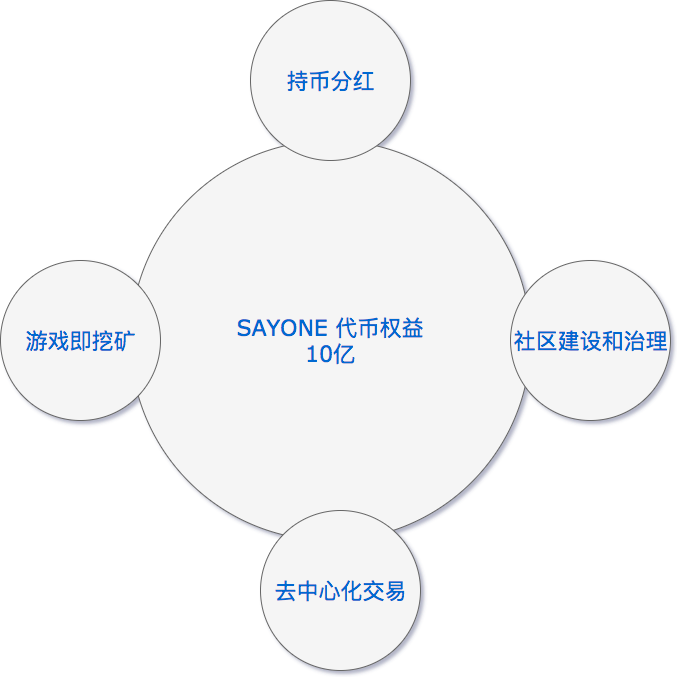
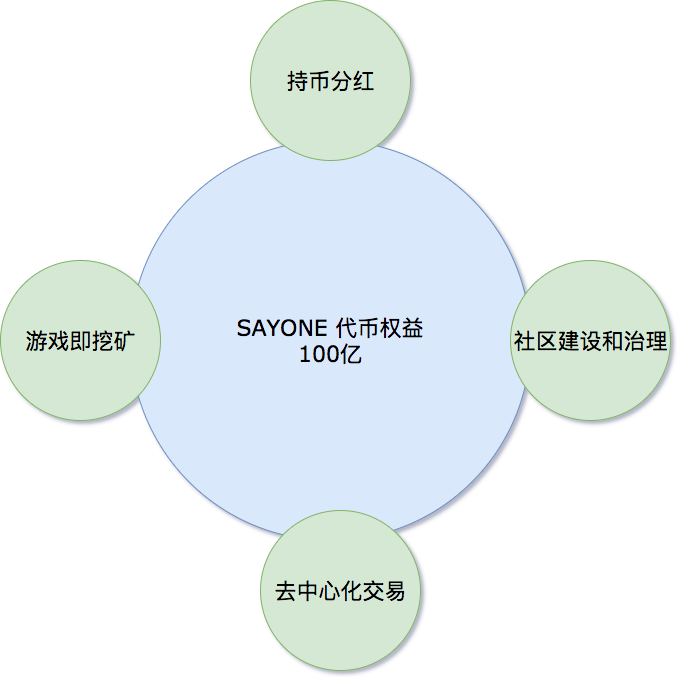
GitBook: [master] one page and 2 assets modified

diff --git a/sayone-dai-bi-quan-yi.md b/sayone-dai-bi-quan-yi.md
@@ -1,4 +1,4 @@
 # SAYONE代币权益
 
-![](.gitbook/assets/sayone-dai-bi-quan-yi.png)
+![](.gitbook/assets/sayone-dai-bi-quan-yi%20%281%29.png)
 
